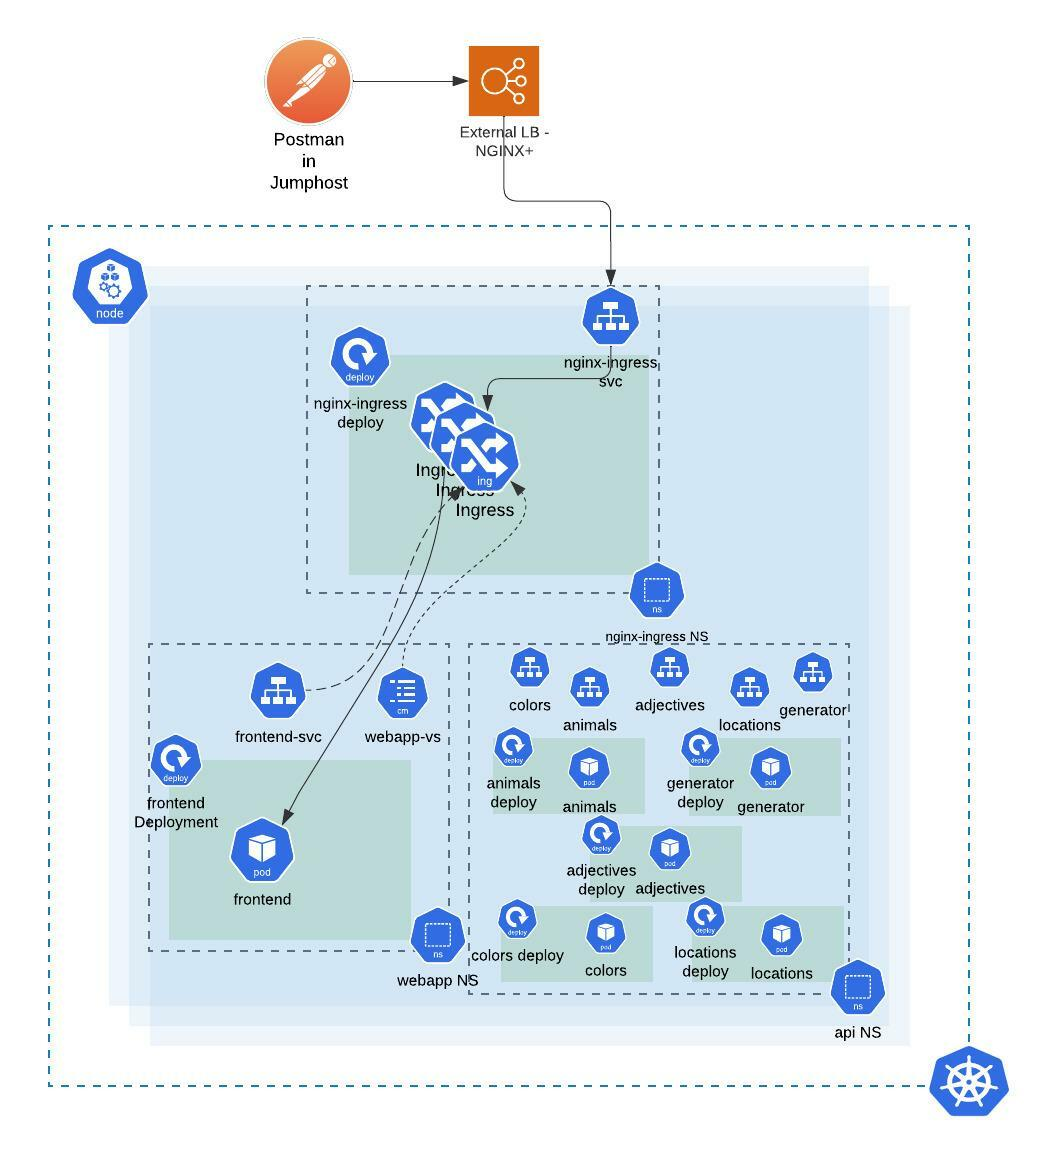
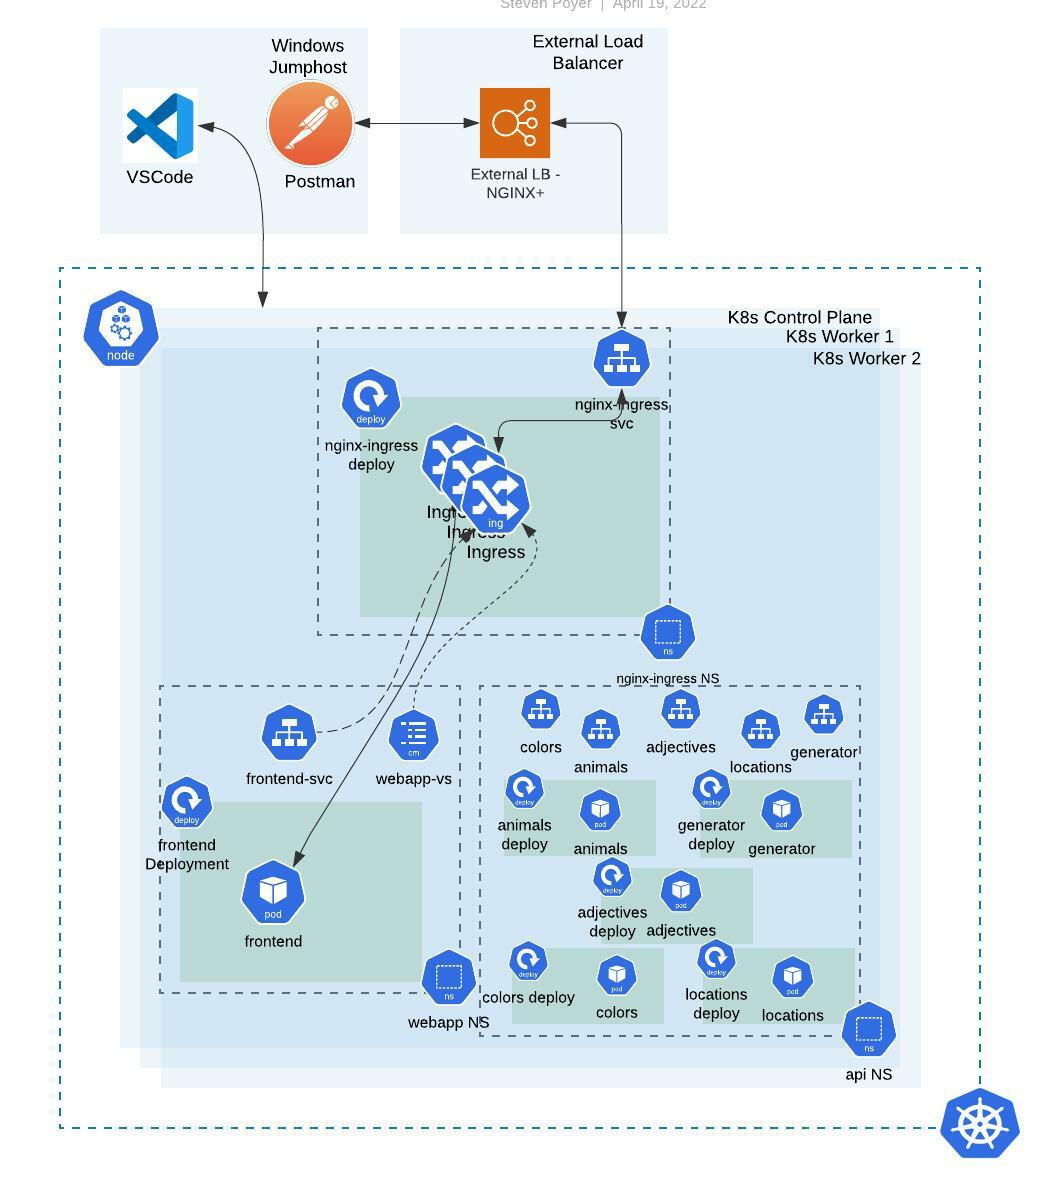
Content updates

diff --git a/modules/module1/readme.md b/modules/module1/readme.md
@@ -1,10 +1,23 @@
 # Module 1
 
-Welcome to the Agility Lab 2022 on using the NGINX Ingress Controller 
-[Environment Overview](media/Agility%20UDF%20Environment.jpeg)
+The purpose of the first module is to give you an overview of the lab environment.  
+
+By the end of this module you will:
+1. Understand the overall architecture of this lab
+2. Become familiar with the tools on the Windows Jumphost
+3. Understand how to run commands to both view and make changes to the lab environment
+4. Understand how to verify your work by sending traffic to the Kubernetes cluster
+
 
 ## Step 1
 
+Let's begin by taking a look at the overall architecture of the lab environment.  Please review the following diagram:
+
+[Environment Overview](media/Agility%20UDF%20Environment.jpeg)
+
+As per the diagram, you will be working with a three node cluster with one control-plane node and two workers.  The NGINX Ingress Controller (NIC) is deployed into the nginx-ingress namespace.  The NIC deployment is exposed with a NodePort service to make it accessible from outside of the cluster.  There are two application namespaces:  a) API and b) Webapp.  The API namespace contains a number of deployments corresponding to the the API runtimes/endpoints that you will access throughout the lab modules.  The webapp namespace contains a single application called frontend.  It's purpose is to generate a browser application that uses the API's to create a sentence to display on the web page.    
+
+The cluster has an external NGINX+ load balancer.  Its purpose is to load balance requests across all of the nodes of the cluster.  You can generate API requests from the PostMan application installed on the Windows Jump Host.  
 ## Step 2
 
 

diff --git a/modules/README.md b/modules/README.md
@@ -1,5 +1,9 @@
 # agility2022udf
 
+Welcome to the Agility Lab 2022 on using the NGINX Ingress Controller as an API Gateway!
+
+In the Lab you will learn about the following
+
 ## Lab Outline:
 
 #### Module 1: [{INSERT MODULE 1 TITLE}](module1/readme.md) 
